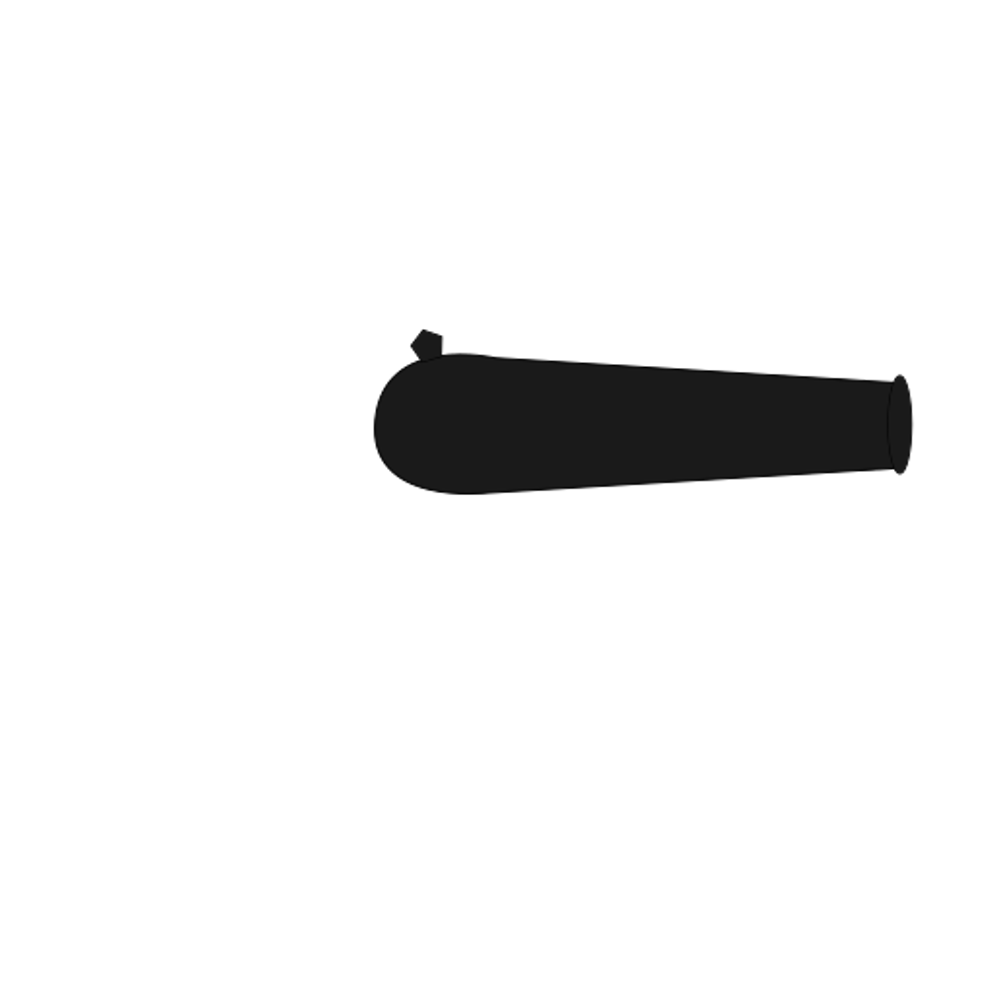
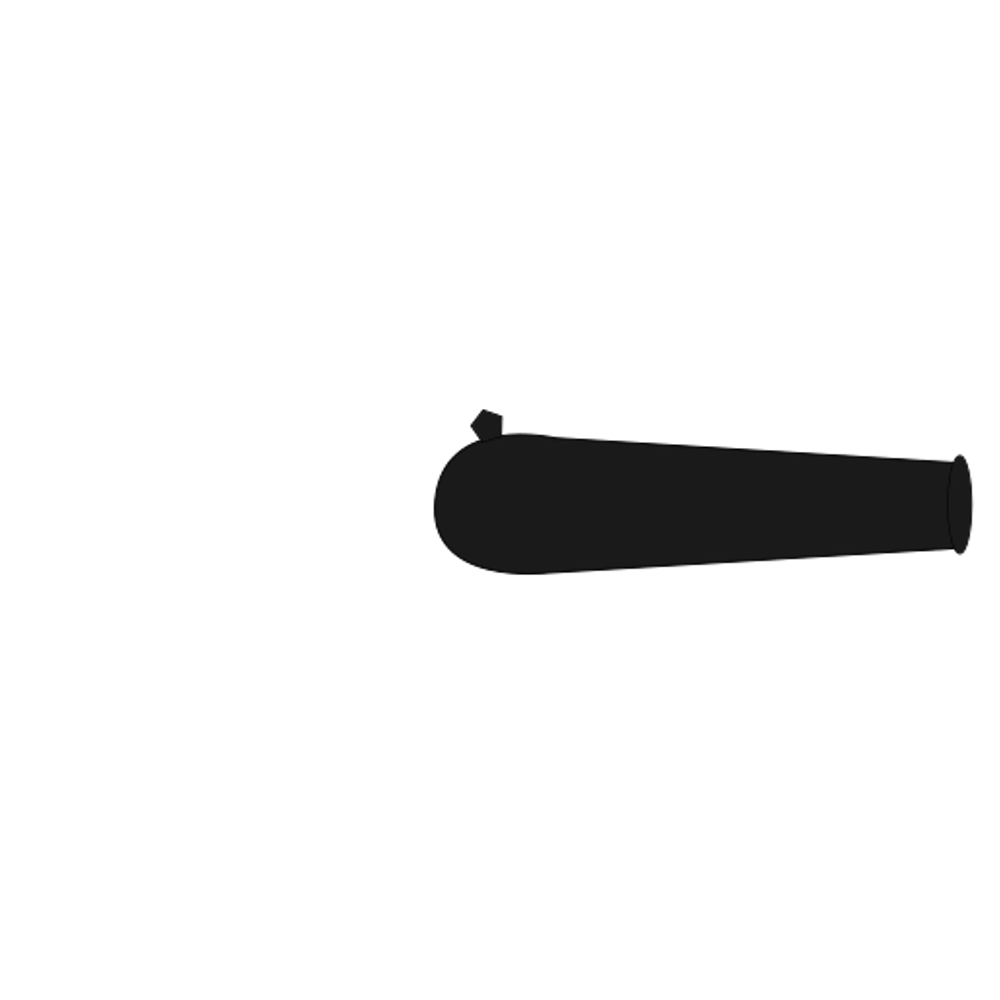
Cañon rotación
Se divide la imagen del cañon en 2

Changed region(s): [[0.372, 0.31, 0.992, 0.589]]

diff --git a/proyecto.py b/proyecto.py
@@ -18,7 +18,7 @@ letra_outro=pygame.font.Font('Starjedi.ttf', 75)
 letra_letreros=pygame.font.SysFont('arial_narrow_7.ttf',35)    
 letra_instrucciones= pygame.font.Font('arial_narrow_7.ttf',35)
 lista_instrucciones=('instruccion1.txt','instruccion2.txt','instruccion3.txt','instruccion4.txt')
-lista_imagenes_inst=("img/cañon7.png",0,'img/teclas_inst.png','img/ecuaciones.png')
+lista_imagenes_inst=("img/cañon8.png",0,'img/teclas_inst.png','img/ecuaciones.png',"img/cañon9.png")
 puntos=0
 nivel=0
 next_level=False
@@ -277,7 +277,8 @@ class mundo:
         #CARGA DE IMAGENES
         plano = pygame.image.load(self.mplano)                                                                                      #Imagen de fondo
         bola=pygame.image.load("img/bolacañonpequeña.png")                                                                          #Imagen de bala
-        cañon=pygame.image.load("img/cañon7.png")                                                                                   #Imagen de cañon
+        cañon=pygame.image.load(lista_imagenes_inst[0])                                                                             #Imagen de cañon
+        base=pygame.image.load(lista_imagenes_inst[4])
         explosion=pygame.image.load("img/explosión.png")                                                                            #imagen de la Explosón al disparar
         objetivo=pygame.image.load("img/objetivop.png")
         sonidoexplosión=pygame.mixer.Sound("sound/sonexp.wav")
@@ -375,10 +376,11 @@ class mundo:
                 
             vi=(v0*10)/32
             image2_rotated , image2_rotated_rect = self.rotate(cañon,angle)                                                         #Rota el cañon
-            cc = (pos_canon[0]+64-int(image2_rotated.get_width()//2),pos_canon[1]+64-int(image2_rotated.get_height()//2))
-
+            cc = (pos_canon[0]+71-int(image2_rotated.get_width()//2),pos_canon[1]+71-int(image2_rotated.get_height()//2))
+            pos_base=(pos_canon[0]-30,pos_canon[1]-30)
+            
             #DIBUJAR EN PANTALLA LAS DIFERENTES IMAGENES
-            self.dibujar_img(((plano,posplano),(objetivo,posobjetivo),(explosion,pos_expl),(bola,pos_bola),(image2_rotated,cc)))        
+            self.dibujar_img(((plano,posplano),(objetivo,posobjetivo),(explosion,pos_expl),(bola,pos_bola),(image2_rotated,cc),(base,pos_base)))        
             
             #CALCULA NUEVAS POSICIONES
             t=t+n

diff --git a/imagenes.py b/imagenes.py
@@ -23,7 +23,7 @@ def rotarcanon(angle):
     cañon[0:0+filas, 0:0+columnas ] = base
 
     #cv2.imwrite('adsasd',base)
-    cv2.imwrite('Salidasaa.png',base)
+    cv2.imwrite('Salidasa.png',base)
     return
 
-rotarcanon(9)    
+rotarcanon(90)    
